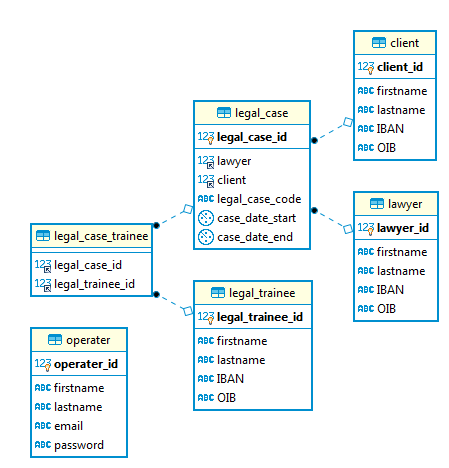
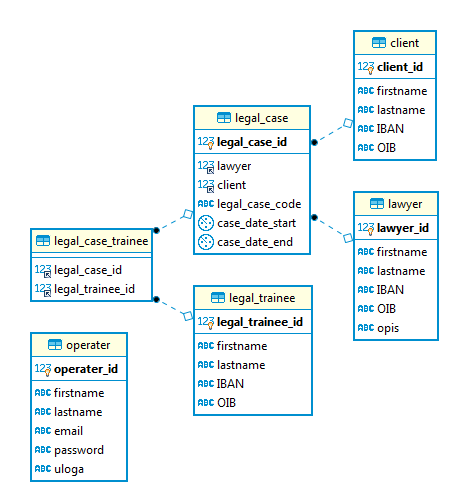
admin operater

Changed region(s): [[0.0624, 0.2094, 0.9978, 0.9872], [0.4053, 0.5684, 0.7171, 0.8974], [0.7483, 0.0598, 0.9666, 0.359]]

diff --git a/app/controller/IndexController.php b/app/controller/IndexController.php
@@ -16,30 +16,24 @@ class IndexController
     
     public function index()
     {
-       $view = new View();
 
-       $view->render("index",["a"=>1,"b"=>["ime"=>"Pero"]]);
+        $this->view->render("index",["a"=>1,"b"=>["ime"=>"Pero"]]);
     }
 
     public function onama()
     {
-       $view = new View();
 
-       $view->render("onama");
+        $this->view->render("onama");
     }
 
     public function kontakt()
     {
-       $view = new View();
-
-       $view->render("kontakt");
+        $this->view->render("kontakt");
     }
 
     public function login()
     {
-       $view = new View();
-
-       $view->render("login");
+        $this->view->render("login");
     }
 
     public function autoriziraj()
@@ -66,44 +60,24 @@ class IndexController
         $korisnik = new stdClass();
         $korisnik->email=$red->email;
         $korisnik->firstnamelastname=$red->firstname . " " . $red->lastname;
+        $korisnik->uloga=$red->uloga;
         $_SESSION["autoriziran"]=$korisnik;
-        
-        $view->render("privatno/nadzornaPloca");
+        $this->view->render("privatno/nadzornaPloca");
 
-        /*
-        if(App::param("email")!=="" && App::param("password")!==""){
-            //izvrši provjeru na bazu
-            $db = DB::getInstance();
-            $izraz=$db->prepare("select * from 
-            operater where email=:email");
-            $izraz->execute(["email"=>App::param("email")]);
-            if($izraz->rowCount()>0){
-                $red = $izraz->fetch();
-                if(password_verify(App::param("password"),$red->lozinka)){
-
-                    $_SESSION["autoriziran"]=true;
-                    $view->render("privatno/nadzornaPloca");
-                }else{
-                    $view->render("login",["greska"=>"Netočna lozinka"]);
-                }
-                    
-            }else{
-                $view->render("login",["greska"=>"Ne postojeći korisnik"]);
-            }
-            
-        }else{
-            $view->render("login",["greska"=>"Obavezno unos email i lozinka"]);
-        }
-        */
     }
 
     public function logout()
     {
         unset($_SESSION["autoriziran"]);
         session_destroy();
-        
-       $view = new View();
+       $this->view->render("login");
+    }
 
-       $view->render("login");
+    public function nadzornaPloca(){
+        if(!isset($_SESSION["autoriziran"])){
+            $this->view->render("login");
+            exit;
+        }
+        $this->view->render("privatno/nadzornaPloca");
     }
 }

diff --git a/app/model/Client.php b/app/model/Client.php
@@ -2,11 +2,16 @@
 
 class Client
 {
-    public static function getClients($stranica)
+    public static function getClients($stranica=0)
     {
 
-        $sps = App::config("stavakaPoStranici");
-        $odKuda=($stranica -1) * $sps;
+        if($stranica>0){
+            $sps = App::config("stavakaPoStranici");
+            $odKuda=($stranica -1) * $sps;
+            $limit = "limit " . $odKuda . ", " . $sps;
+        }else{
+            $limit="";
+        }
         
         $veza = DB::getInstance();
         $izraz = $veza->prepare("
@@ -14,11 +19,10 @@ class Client
         from client 
         where concat(firstname,lastname,ifnull(OIB,'')) like :uvjet
         order by firstname
-        limit
-        "
         
 
-        . $odKuda . ', ' . $sps);
+        " . $limit
+        );
         $izraz->execute(["uvjet"=>"%" . App::param("uvjet") . "%"]);
         return $izraz->fetchAll();
 
@@ -61,6 +65,7 @@ class Client
         $izraz->execute($_POST);
     }
 
+    
 
     public static function promjeni($id)
     {   

diff --git a/app/config.php b/app/config.php
@@ -4,20 +4,19 @@ return [
     "nazivApp" => "Law office",
     "dev"=> true,
     "db" => [
-
-"server"=>"localhost",
-"baza"=>"lawfirm",
-"korisnik"=>"edunova",
-"lozinka"=>"edunova"
-
+        "server"=>"localhost",
+		"baza"=>"morfej_lawfirm",
+		"korisnik"=>"morfej_dcavajda",
+		"lozinka"=>"dcavajda"
     ],
     "stavakaPoStranici"=>24
     
 ];
 /*
-"server"=>"localhost",
-"baza"=>"morfej_lawfirm",
-"korisnik"=>"morfej_dcavajda",
-"lozinka"=>"dcavajda"
+		"server"=>"localhost",
+        "baza"=>"lawfirm",
+        "korisnik"=>"edunova",
+        "lozinka"=>"edunova"
+
 */
 

diff --git a/app/controller/OperaterController.php b/app/controller/OperaterController.php
@@ -1,0 +1,25 @@
+<?php
+
+class OperaterController extends UlogaAdmin
+{
+
+    private $viewGreska="";
+    private $id=0;
+
+    public function __construct()
+    {
+        parent::__construct();
+        if($_SESSION["autoriziran"]->uloga!="admin"){
+            $this->view->render("login");
+            exit;
+        }
+    }
+
+
+    public function index()
+    {  
+        $this->view->render("privatno/operateri/index");
+    }
+
+
+}

diff --git a/app/controller/UlogaOperater.php b/app/controller/UlogaOperater.php
@@ -1,0 +1,13 @@
+<?php
+
+class UlogaOperater extends Controller
+{
+    public function __construct()
+    {
+        parent::__construct();
+        if($_SESSION["autoriziran"]->uloga!="oper"){
+            $this->view->render("login");
+            exit;
+        }
+    }
+}

diff --git a/app/controller/UlogaAdmin.php b/app/controller/UlogaAdmin.php
@@ -1,0 +1,13 @@
+<?php
+
+class UlogaAdmin extends Controller
+{
+    public function __construct()
+    {
+        parent::__construct();
+        if($_SESSION["autoriziran"]->uloga!="admin"){
+            $this->view->render("login");
+            exit;
+        }
+    }
+}

diff --git a/app/controller/ClientsController.php b/app/controller/ClientsController.php
@@ -1,10 +1,11 @@
 <?php
 
-class ClientsController extends Controller
+class ClientsController extends UlogaOperater
 {
     private $viewGreska="";
     private $id=0;
 
+    
     public function index($stranica=1)
     {  
 

diff --git a/app/controller/Legal_case_traineesController.php b/app/controller/Legal_case_traineesController.php
@@ -1,6 +1,6 @@
 <?php
 
-class Legal_case_traineesController extends Controller
+class Legal_case_traineesController extends UlogaOperater
 {
 
     private $viewGreska="";

diff --git a/app/controller/Legal_traineesController.php b/app/controller/Legal_traineesController.php
@@ -1,6 +1,6 @@
 <?php
 
-class Legal_traineesController extends Controller
+class Legal_traineesController extends UlogaOperater
 {
 
     private $viewGreska="";

diff --git a/app/controller/Legal_casesController.php b/app/controller/Legal_casesController.php
@@ -1,6 +1,6 @@
 <?php
 
-class Legal_casesController extends Controller
+class Legal_casesController extends UlogaOperater
 {
 
     private $viewGreska="";

diff --git a/app/controller/LawyersController.php b/app/controller/LawyersController.php
@@ -1,6 +1,6 @@
 <?php
 
-class LawyersController extends Controller
+class LawyersController extends UlogaOperater
 {
 
     private $viewGreska="";
